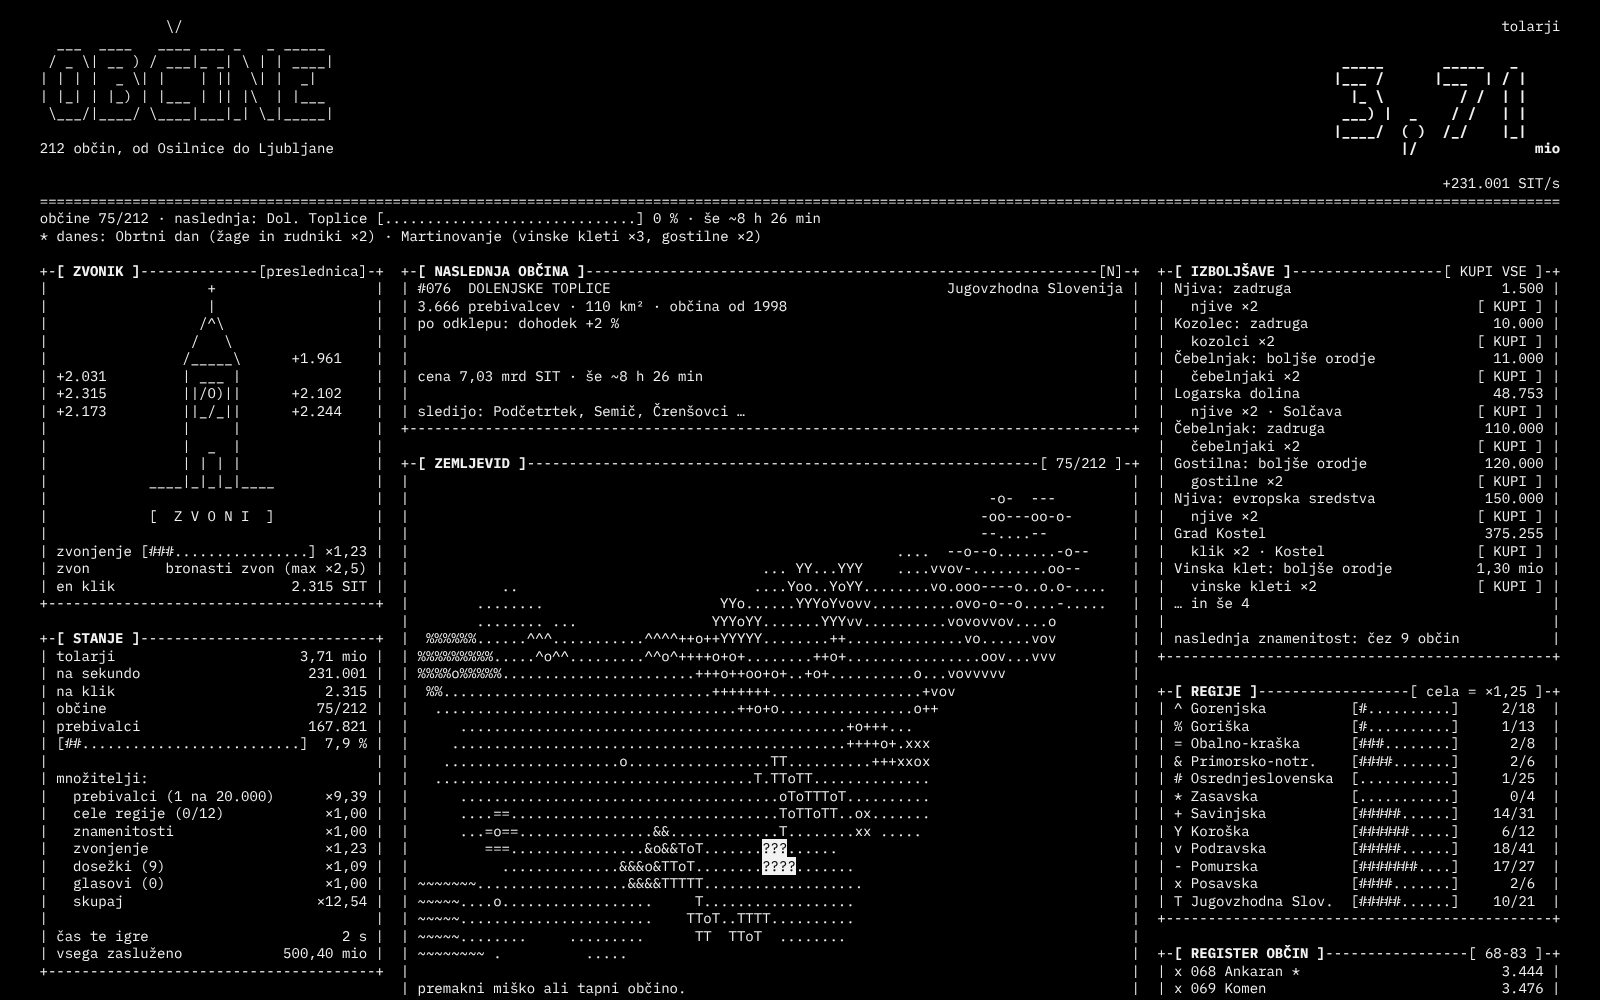
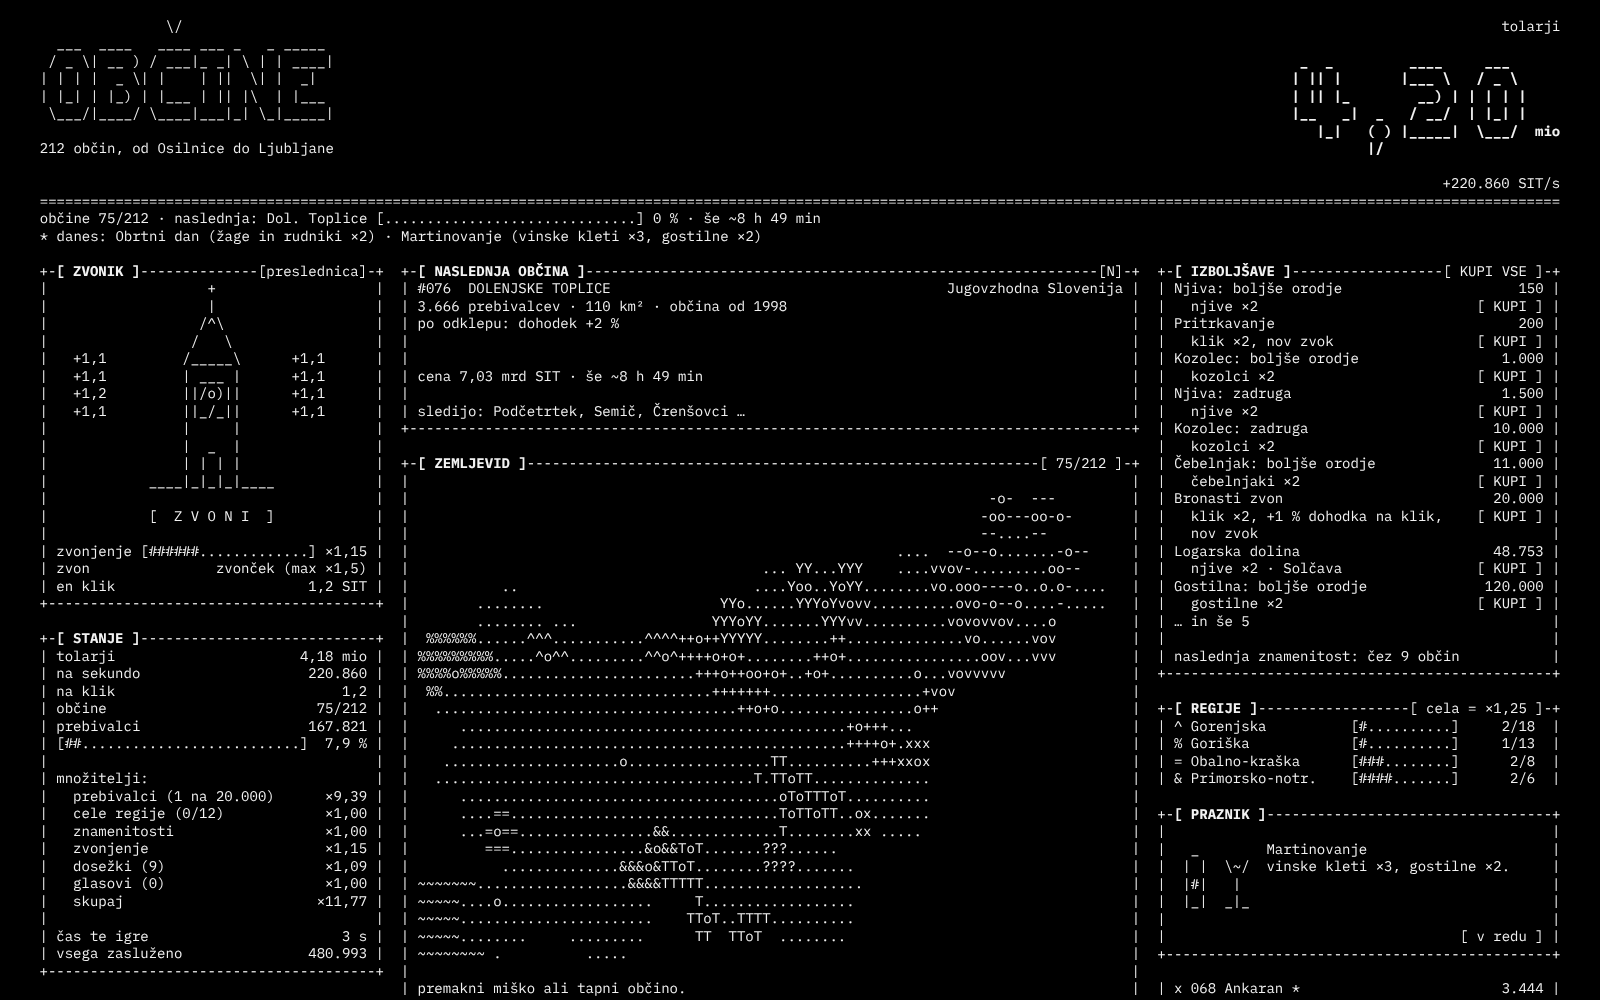
Fresh README screenshot and link preview, rendered by tools/shots.py
Claude-Session: https://claude.ai/code/session_011S4VzmSE5GenGnwfxw3nMq

diff --git a/index.html b/index.html
@@ -12,7 +12,7 @@
 <link rel="manifest" href="site.webmanifest">
 <meta property="og:title" content="Občine: kliker">
 <meta property="og:description" content="Odkleni vseh 212 slovenskih občin. V ASCII.">
-<meta property="og:image" content="https://collarcore.github.io/improved-disco/og.png?v=2">
+<meta property="og:image" content="https://collarcore.github.io/improved-disco/og.png?v=3">
 <meta property="og:url" content="https://collarcore.github.io/improved-disco/">
 <meta name="twitter:card" content="summary_large_image">
 <link rel="preload" href="fonts/ibm-plex-mono-latin-400-normal.woff2" as="font" type="font/woff2" crossorigin>

diff --git a/src/game.html b/src/game.html
@@ -12,7 +12,7 @@
 <link rel="manifest" href="site.webmanifest">
 <meta property="og:title" content="Občine: kliker">
 <meta property="og:description" content="Odkleni vseh 212 slovenskih občin. V ASCII.">
-<meta property="og:image" content="https://collarcore.github.io/improved-disco/og.png?v=2">
+<meta property="og:image" content="https://collarcore.github.io/improved-disco/og.png?v=3">
 <meta property="og:url" content="https://collarcore.github.io/improved-disco/">
 <meta name="twitter:card" content="summary_large_image">
 <link rel="preload" href="fonts/ibm-plex-mono-latin-400-normal.woff2" as="font" type="font/woff2" crossorigin>

diff --git a/tools/shots.py b/tools/shots.py
@@ -1,0 +1,65 @@
+"""Renders the README screenshot (docs/screenshot.png) and the link preview (og.png) from the game.
+Needs the built index.html served on :8765 (python3 -m http.server 8765) and Playwright."""
+import os, json, io
+from playwright.sync_api import sync_playwright
+from PIL import Image
+
+ROOT = os.path.dirname(os.path.dirname(os.path.abspath(__file__)))
+OWN = [60, 50, 40, 30, 20, 10, 5, 2, 0, 0, 0, 0]
+# a Tuesday in November: crafts day and Martinovanje; the day's pop-up already seen, so the holiday shows
+DATE = '2026-11-24T15:00:00'
+MID = {"sit": 3.7e6, "n": 75, "own": [40, 30, 20, 12, 8, 4, 0, 0, 0, 0, 0, 0], "ups": [], "save": 9e15, "sound": 0, "lang": "sl",
+       "ach": ["o1", "o10", "o25", "o50", "o75", "c100", "c1000", "tri", "ev"], "clicks": 1500, "evSeen": {"day": "Tue Nov 24 2026"}}
+LATE = {"sit": 4e12, "n": 128, "own": OWN, "ups": ["k1", "k2", "k3"], "ach": ["o1", "ev"], "save": 9e15, "sound": 0, "lang": "sl", "clicks": 9000,
+        "evSeen": {"day": "Tue Nov 24 2026", "martin": 2026}}
+
+
+def page(b, state, w, h):
+    c = b.new_context(viewport={'width': w, 'height': h})
+    c.add_init_script("window.__date='%s';localStorage.setItem('obcine-v2',JSON.stringify(%s))" % (DATE, json.dumps(state)))
+    pg = c.new_page(); pg.goto('http://localhost:8765/'); pg.wait_for_timeout(1000)
+    return c, pg
+
+
+def shot(loc):
+    return Image.open(io.BytesIO(loc.screenshot()))
+
+
+with sync_playwright() as p:
+    b = p.chromium.launch(executable_path=os.environ.get('CHROME') or None)
+    # README: mid-run, with the Martinovanje pop-up and a few rings floating off the bell
+    c, pg = page(b, MID, 1600, 1000)
+    pg.wait_for_timeout(600)
+    for _ in range(12): pg.keyboard.press('Space'); pg.wait_for_timeout(60)
+    pg.screenshot(path=os.path.join(ROOT, 'docs/screenshot.png'))
+    c.close()
+    # link preview: banner, bell tower with a full meter, the map at 128/212 with the Kurent on it
+    c, pg = page(b, LATE, 1600, 1100)
+    pg.evaluate("document.getElementById('toast').hidden=true")
+    for _ in range(80): pg.keyboard.press('Space'); pg.wait_for_timeout(15)
+    pg.wait_for_timeout(2200)  # let the floating numbers fade
+    pg.evaluate("__dbg.spawn()"); pg.wait_for_timeout(300)
+    pg.evaluate("document.getElementById('toast').hidden=true")
+    head = shot(pg.locator('#head'))
+    bell = shot(pg.locator('#p-bell'))
+    mp = shot(pg.locator('#p-map'))
+    c.close()
+    b.close()
+
+# the banner is the left part of the header, down to the subtitle
+px = head.convert('L').load()
+x1 = max(x for x in range(min(head.width, 500)) for y in range(head.height) if px[x, y] > 80) + 2
+rows = [y for y in range(head.height) if any(px[x, y] > 80 for x in range(x1))]
+blocks = []
+for y in rows:
+    if blocks and y - blocks[-1][1] <= 8: blocks[-1][1] = y
+    else: blocks.append([y, y])
+logo = max(range(len(blocks)), key=lambda i: blocks[i][1] - blocks[i][0])  # the tallest block is the logo; the subtitle follows it
+gap = blocks[logo + 1][1] + 6 if logo + 1 < len(blocks) else head.height
+banner = head.crop((0, 0, x1, gap))
+og = Image.new('RGB', (1200, 630), 'black')
+og.paste(banner, (40, 30))
+og.paste(bell.crop((0, 0, bell.width, min(bell.height, 630 - 60 - banner.height))), (40, 30 + banner.height + 20))
+og.paste(mp.crop((0, 0, min(mp.width, 1200 - 430), min(mp.height, 610))), (430, 10))
+og.save(os.path.join(ROOT, 'og.png'))
+print('docs/screenshot.png', Image.open(os.path.join(ROOT, 'docs/screenshot.png')).size, 'og.png', og.size, 'banner', banner.size, 'bell', bell.size, 'map', mp.size)

diff --git a/README.md b/README.md
@@ -91,6 +91,7 @@ users catch the Kurent. Animations stop under *prefers-reduced-motion*.
 | `tools/mapgen.py` | regenerates the maps from coordinates (weighted Voronoi) |
 | `tools/econ.py` | game data for the simulator |
 | `tools/balance.py` | balance simulator: active and casual players, prices in one place |
+| `tools/shots.py` | renders the README screenshot and the link-preview image from the game |
 | `fonts/` | IBM Plex Mono, self-hosted |
 | `docs/` | README images |
 | `tests/` | browser tests (see `tests/README.md`) |
